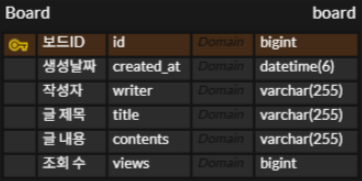
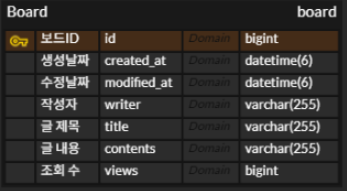
📝 Update : README.md v2.0.0 추가

diff --git a/README.md b/README.md
@@ -18,6 +18,19 @@
 <p>
   <b>게시글 삭제</b> : 게시글을 삭제합니다. 권한 기능이 없으므로, 누구나 게시글 삭제가 가능합니다.
 </p>
+
+<h1>버전 2.0.0</h1>
+<h2>기능</h2>
+<p>게시글 등록, 조회, 수정, 삭제의 프론트 구현</p> 
+<p>수정일 컬럼 추가</p>
+<p>페이지네이션 추가</p>
+
+<h2>기능 명세</h2>
+<p>
+  <b>페이지네이션</b> : 전체 게시글 수, 페이지 번호, 페이지 크기 등 간소화한 정보를 가져옵니다.
+  <br>조회 시, 페이지 객체를 반환합니다.
+</p>
+
 <h1>게시판 프로젝트 ERD</h1>
 
 ![게시판 ERD](board.png)
